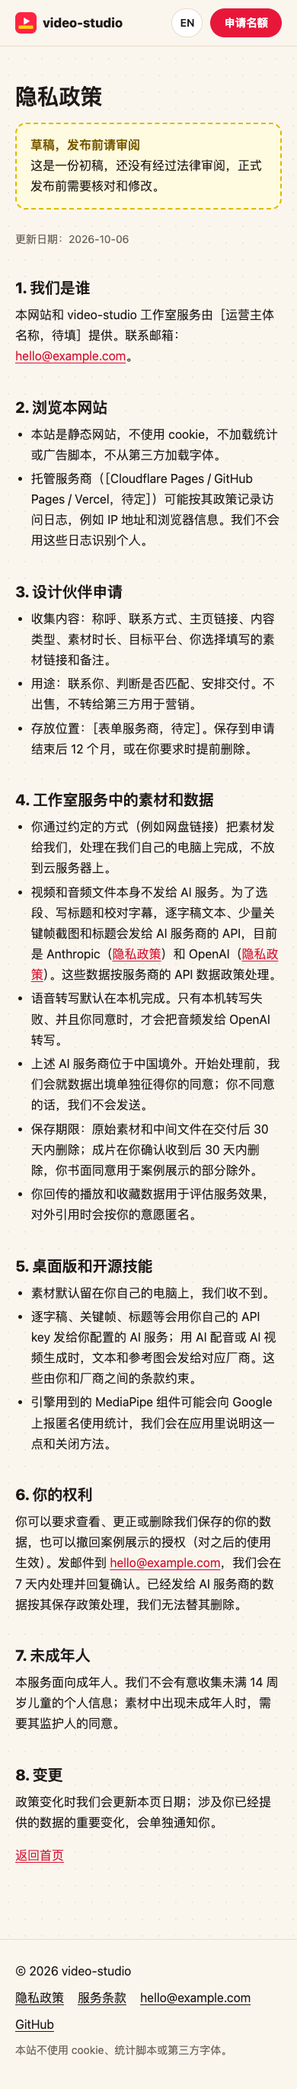
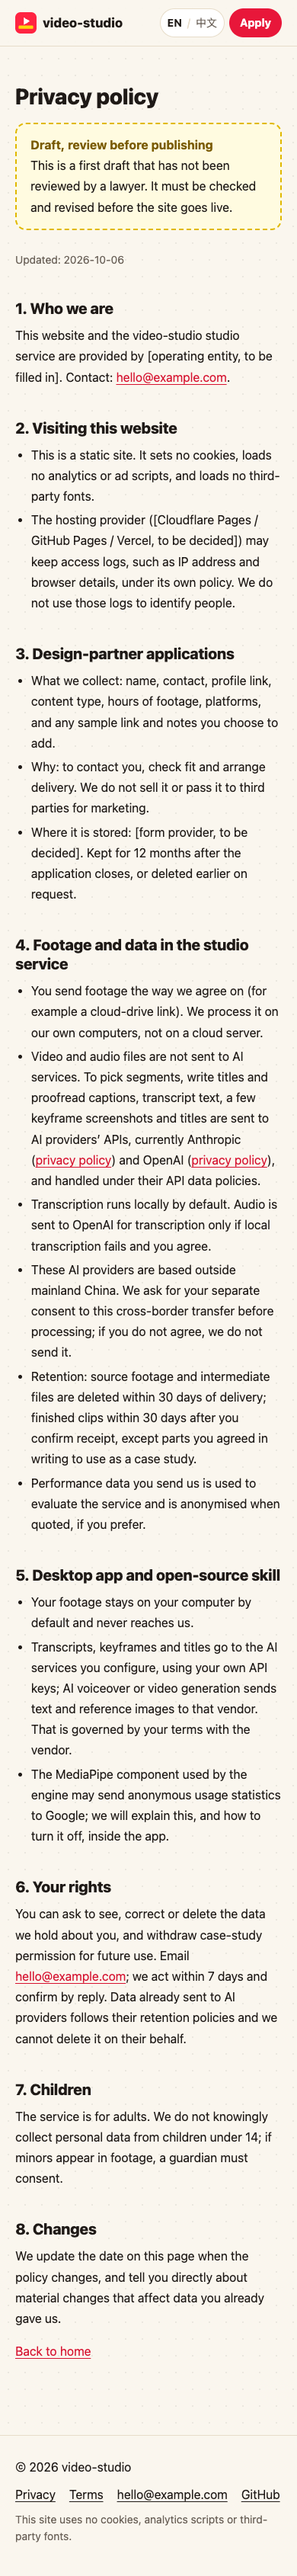
feat(site): make English the default locale, move Chinese to /zh/

diff --git a/src/i18n/en.ts b/src/i18n/en.ts
@@ -15,7 +15,7 @@ export const en: Widen<typeof zh> = {
   meta: {
     title: 'video-studio · Turn one lecture into 30 days of short videos',
     description:
-      'An AI-native video studio for course and knowledge creators: AI editing, automatic QC and human review. Clips, covers and post copy for Xiaohongshu, Douyin, WeChat Channels, YouTube and Shorts in 72 hours.',
+      'A video studio for course and knowledge creators. Send one long recording and get clips, covers and post copy for Xiaohongshu, Douyin, WeChat Channels, YouTube and Shorts within 72 hours, edited by AI and checked by a person.',
   },
   nav: {
     how: 'How it works',
@@ -26,19 +26,18 @@ export const en: Widen<typeof zh> = {
     desktop: 'Desktop app',
     faq: 'FAQ',
     cta: 'Apply',
-    switchLabel: '中文',
-    switchAria: '切换到中文',
+    langGroup: 'Language',
     skip: 'Skip to content',
   },
   hero: {
     eyebrow: 'An AI video studio for course and knowledge creators',
     titleA: 'Turn one lecture',
-    titleB: 'into 30 days of short videos',
-    sub: 'Send us a course recording, a talk or a livestream replay. AI editing, automatic QC and human review give you ready-to-post clips, covers and copy for Xiaohongshu, Douyin, WeChat Channels, YouTube and Shorts within 72 hours.',
+    titleB: 'into 30 days of short\u00a0videos',
+    sub: 'Send us a course recording, a talk or a livestream replay. Within 72 hours you get ready-to-post clips with covers and copy for Xiaohongshu, Douyin, WeChat Channels, YouTube and Shorts. AI does the editing, automatic checks catch problems, and a person reviews anything they flag.',
     ctaPrimary: 'Apply for a free spot (first 30)',
     ctaSecondary: 'See a real batch',
     points: [
-      'You only look at the exceptions QC flags',
+      'You only review the clips our checks flag',
       'Every clip comes with a cover, title, caption and tags',
       'We never log in to your accounts; you press publish',
     ],
@@ -53,27 +52,27 @@ export const en: Widen<typeof zh> = {
   },
   how: {
     kicker: 'How it works',
-    title: 'A whole lecture at once, not one clip at a time',
+    title: 'One lecture in, a whole batch out',
     steps: [
       {
         title: 'Upload',
-        body: 'Send one course recording, talk or livestream replay (ideally 90 minutes or less) and tell us the platforms and style you want.',
+        body: 'Send one course recording, talk or livestream replay (ideally 90 minutes or less) and tell us which platforms and style you want.',
       },
       {
         title: 'Batch edit',
-        body: 'AI picks segments by topic, removes pauses, filler words and repeats, then adds captions, title bands, code zooms and notes panels for the whole batch.',
+        body: 'AI splits the recording by topic and removes pauses, filler words and repeats. Then it adds captions, title bands, code zooms and notes panels across the whole batch.',
       },
       {
         title: 'Automatic QC',
-        body: 'Every file is checked: loudness, audio/video sync, missing words in captions, overlap with platform buttons, length and title length. Failures turn red.',
+        body: 'Every file is checked for loudness, audio/video sync, missing caption words, text hidden under app buttons, clip length and title length. Anything that fails is marked red.',
       },
       {
         title: 'Review exceptions',
-        body: 'A person watches, fixes and re-renders the red clips plus a random sample of green ones. You do not have to watch everything.',
+        body: 'A person watches, fixes and re-renders every red clip, plus a random sample of green ones. You don’t have to watch them all.',
       },
       {
         title: 'Publish packages',
-        body: 'One folder per platform: videos, covers, titles, captions, tags and a reminder to add the AI-content label. You publish them yourself.',
+        body: 'You get one folder per platform with videos, covers, titles, captions, tags and a reminder to add the AI-content label. You do the posting.',
       },
     ],
     platformsLabel: 'Platforms',
@@ -81,21 +80,21 @@ export const en: Widen<typeof zh> = {
   },
   proof: {
     kicker: 'Real numbers',
-    title: 'One real batch, the good and the not yet good',
-    lede: 'These numbers come from an internal test batch we ran on one of our own 72-minute lectures. It is not a customer case.',
+    title: 'One real batch: what worked and what didn’t',
+    lede: 'These numbers are from an internal test batch on one of our own 72-minute lectures, not a customer project.',
     stats: [
       { value: '96', label: 'finished files', note: '24 clips × 4 platforms, each with a cover and post copy' },
       { value: '$0.73', label: 'AI API cost for the batch', note: 'About $0.03 per clip; transcription ran locally' },
-      { value: '21 / 24', label: 'clips passed automatic QC', note: 'All 3 red clips were at edit seams and went to human review' },
-      { value: '3–4 h', label: 'first-run machine time', note: 'After a fix, an incremental re-run of 13 clips took 18 minutes' },
+      { value: '21 / 24', label: 'clips passed automatic QC', note: 'All 3 red clips were at edit seams and went to a person' },
+      { value: '3–4 h', label: 'first-run machine time', note: 'After a fix, re-running just the 13 affected clips took 18 minutes' },
     ],
-    caveatsTitle: 'What is not good enough yet',
+    caveatsTitle: 'What isn’t good enough yet',
     caveats: [
-      'Chinese captions still mishear some words. A glossary fixes part of it; a person catches the rest.',
-      'Too many filler-word cuts still need a human yes or no (about 15 per clip in this batch). We are making low-risk types pass automatically.',
-      'When the on-screen text in the source is small, it is hard to read in a vertical crop.',
+      'Chinese captions still get some words wrong. A glossary fixes some of them and a person catches the rest.',
+      'Filler-word cuts still need too many human yes/no calls (about 15 per clip in this batch). We’re working on letting the low-risk ones through automatically.',
+      'When on-screen text in the source is small, it’s hard to read after a vertical crop.',
     ],
-    stripCaption: 'Frames from six kinds of edits made with the same tools: talking head, lecture slices, photo story, travel vlog, podcast with face masking, explainer.',
+    stripCaption: 'Frames from six kinds of edits made with the same tools: talking head, lecture slices, photo story, travel vlog, podcast with face masking and explainer.',
     stripAlts: [
       'Talking-head short with captions and a notes panel',
       'Lecture slice with code and a title band',
@@ -124,30 +123,30 @@ export const en: Widen<typeof zh> = {
   },
   deliverables: {
     kicker: 'What you get',
-    title: 'What lands in your folder',
+    title: 'What you receive',
     items: [
-      { title: 'Per-platform videos', body: 'Xiaohongshu 3:4; Douyin, WeChat Channels and Shorts 9:16; YouTube 16:9 when you need it. Each exported separately at the platform loudness.' },
-      { title: 'Captions', body: 'Burned-in captions placed clear of each app’s buttons and title area. SRT files on request.' },
+      { title: 'Per-platform videos', body: 'Xiaohongshu 3:4; Douyin, WeChat Channels and Shorts 9:16; YouTube 16:9 if you need it. Each one is exported separately at that platform’s loudness level.' },
+      { title: 'Captions', body: 'Burned-in captions that stay clear of each app’s buttons and title area. SRT files on request.' },
       { title: 'Covers', body: 'One per clip, sized and cropped for each platform’s feed.' },
-      { title: 'Post copy', body: 'Title, caption and tags for every clip, within each platform’s limits, ready for you to edit.' },
-      { title: 'QC report', body: 'Results for every file: what passed, why something was red, and what the reviewer did about it.' },
+      { title: 'Post copy', body: 'A title, caption and tags for every clip, within each platform’s limits and ready for you to edit.' },
+      { title: 'QC report', body: 'Results for every file: what passed, why anything was marked red, and what the reviewer did about it.' },
       { title: 'Publishing checklist', body: 'A suggested posting schedule and a reminder to tick the AI-content label on each platform.' },
     ],
   },
   partner: {
     kicker: 'Design-partner program',
     title: 'Free for the first 30',
-    lede: 'We are just starting and need honest feedback and real data. The first 30 knowledge creators get one batch free, in exchange for helping us find out whether this is worth paying for.',
+    lede: 'We’re just getting started and need honest feedback and real data. The first 30 knowledge creators get one batch free. In return, you help us find out whether this is worth paying for.',
     getTitle: 'You get',
     get: ['1 recording → 10 short clips', '1–2 platforms', 'Cover and post copy for each', 'Delivery in 72 hours'],
-    giveTitle: 'You agree to (in writing)',
+    giveTitle: 'In return, you agree in writing to',
     give: [
-      'Let us show the batch as a case study; anonymous is fine.',
-      'Send us views and saves 7 days after posting (screenshots are fine).',
-      'One 15-minute feedback interview.',
-      'Agree on a second-batch price up front, for example ¥499 for 20 clips if you are happy. You can say no.',
+      'Let us show the batch as a case study (it can be anonymous).',
+      'Share views and saves 7 days after posting (screenshots are fine).',
+      'Do one 15-minute feedback call.',
+      'Agree up front on a price for a second batch if you’re happy, for example ¥499 for 20 clips. You can still say no.',
     ],
-    priority: 'We prioritise course and knowledge creators with recordings or livestream replays, then podcasters and bilingual creators. Spots are confirmed by fit and order of application; we reply to everyone.',
+    priority: 'Course and knowledge creators with recordings or livestream replays come first, then podcasters and bilingual creators. Spots are given by fit and order of application, and we reply to everyone.',
   },
   form: {
     title: 'Apply as a design partner',
@@ -156,7 +155,7 @@ export const en: Widen<typeof zh> = {
     profile: 'Profile link (Xiaohongshu, Bilibili, YouTube, ...)',
     type: 'Content type',
     typeOptions: ['Course recording', 'Talk / lecture', 'Livestream replay', 'Podcast', 'Other'],
-    hours: 'Roughly how many hours of long recordings',
+    hours: 'Roughly how many hours of long recordings you have',
     hoursOptions: ['Under 5 hours', '5–20 hours', 'Over 20 hours'],
     platforms: 'Platforms you post on',
     platformOptions: ['Xiaohongshu', 'Douyin', 'WeChat Channels', 'YouTube', 'YouTube Shorts', 'Bilibili'],
@@ -169,17 +168,17 @@ export const en: Widen<typeof zh> = {
     submit: 'Send application',
     required: 'required',
     offTitle: 'The online form is not open yet',
-    offBody: 'Please apply by email for now, with the details below. We reply to everyone.',
+    offBody: 'For now, please apply by email with the details below. We reply to everyone.',
     offButton: 'Apply by email',
     mailSubject: 'Design partner application',
     mailBody:
       'Name:\nContact:\nProfile link:\nContent type (course / talk / livestream / podcast / other):\nHours of recordings:\nPlatforms:\nRecording to start with:\n\nI have the rights to the footage and understand the 4 conditions.',
-    note: 'We use this only to contact you and check fit. We do not sell it or pass it to third parties.',
+    note: 'We only use this to contact you and check fit. We don’t sell it or share it with third parties.',
   },
   pricing: {
     kicker: 'Pricing',
     title: 'Early pricing',
-    lede: 'These are early prices we are still testing with pilots, and they will change. For design partners, the second-batch price is whatever you agreed to in writing.',
+    lede: 'We’re still testing these prices with pilot customers, so they will change. Design partners pay whatever second-batch price they agreed to in writing.',
     badge: 'Early pricing',
     plans: [
       {
@@ -192,24 +191,24 @@ export const en: Widen<typeof zh> = {
         name: 'Monthly',
         price: '¥2,999–4,999',
         unit: '/ month',
-        items: ['4 recordings a month', '80–100 clips', '2–3 platforms', 'Your style and glossary, kept'],
+        items: ['4 recordings a month', '80–100 clips', '2–3 platforms', 'We keep your style and glossary'],
       },
       {
         name: 'Per clip',
         price: '¥25–40',
         unit: '/ clip',
-        items: ['Beyond the monthly plan, or one-off needs', 'Same automatic QC and human review'],
+        items: ['Extra clips beyond the monthly plan, or one-off jobs', 'Same automatic QC and human review'],
       },
     ],
-    currency: 'Prices in CNY. Creators outside China: email us for a quote.',
+    currency: 'Prices are in CNY. Outside China? Email us for a quote.',
   },
   desktop: {
     kicker: 'Desktop app (preview)',
     title: 'Prefer to do it yourself?',
-    lede: 'The same engine runs in a desktop workbench on your own computer: create batches, watch progress on a board, review in a grid, cut by editing the transcript. When you publish, it fills in the platform’s page in a built-in browser and you press the publish button yourself.',
+    lede: 'The same engine also runs as a desktop app on your own computer. Create batches, track them on a board, review clips in a grid and cut by editing the transcript. When it’s time to post, it fills in each platform’s upload page in a built-in browser, and you click publish yourself.',
     mac: 'Download for macOS',
     win: 'Download for Windows',
-    note: 'Preview build; features and installation will change. If the download page has no files yet, it is not open; apply as a design partner instead. You bring your own AI API keys.',
+    note: 'This is a preview build, so features and installation will change. If the download page has no files yet, the preview isn’t open; apply as a design partner instead. You’ll need your own AI API keys.',
     board: {
       cols: ['Queued', 'Rendering', 'QC', 'Review', 'Approved'],
       cards: ['ep03 · RRF ranks only', 'ep06 · small chunks', 'ep11 · which metric first', 'ep14 · parent-child', 'ep19 · reranking'],
@@ -221,20 +220,20 @@ export const en: Widen<typeof zh> = {
   oss: {
     kicker: 'Open source',
     title: 'The editing engine is open source',
-    lede: 'Underneath is video-studio, a Claude Code skill under the MIT licence. Describe the edit in Chinese or English: talking-head shorts, lecture slices, podcast clips with face masking, explainers, vlogs and more across 12 workflows, plus covers, captions, loudness and multi-platform export.',
+    lede: 'Under the hood is video-studio, an MIT-licensed Claude Code skill. Describe the edit in English or Chinese. It covers 12 workflows, including talking-head shorts, lecture slices, podcast clips with face masking, explainers and vlogs, plus covers, captions, loudness and multi-platform export.',
     button: 'View on GitHub',
-    tested: 'Each workflow was tested on real footage; known issues are listed in VALIDATION.md in the repo.',
+    tested: 'Each workflow was tested on real footage. Known issues are listed in VALIDATION.md in the repo.',
   },
   faq: {
     kicker: 'FAQ',
     title: 'Privacy, rights and platform rules',
     items: [
       {
-        q: 'With the studio service, where does my footage go?',
+        q: 'If I use the studio service, where does my footage go?',
         a: 'You send it to us the way we agree on (for example a cloud-drive link) and we process it on our own computers, not on a cloud server. The video and audio files are not sent to AI services. To pick segments, write titles and proofread captions, the transcript text, a few keyframe screenshots and titles are sent to AI providers’ APIs (currently Anthropic and OpenAI). Transcription runs locally by default; audio goes to OpenAI for transcription only if local transcription fails and you agree.',
       },
       {
-        q: 'And with the desktop app or the open-source skill?',
+        q: 'What about the desktop app or the open-source skill?',
         a: 'Your footage stays on your own computer by default and never reaches us. As above, transcripts, keyframes and titles go to the AI services you configure, using your own API keys; AI voiceover or AI video generation sends text and reference images to that vendor. The MediaPipe component used by the engine may send anonymous usage statistics to Google; we will explain this, and how to turn it off, inside the app.',
       },
       {
@@ -265,8 +264,8 @@ export const en: Widen<typeof zh> = {
   },
   contact: {
     kicker: 'Contact',
-    title: 'Questions? Email us',
-    body: 'Partnerships, questions and data-deletion requests all go to this address. For the open-source skill you can also open a GitHub issue.',
+    title: 'Questions? Send us an email',
+    body: 'Partnerships, questions and data-deletion requests all go to this address. For the open-source skill, you can also open a GitHub issue.',
     github: 'GitHub issues',
   },
   footer: {

diff --git a/src/styles/global.css b/src/styles/global.css
@@ -72,7 +72,11 @@ mark {
 .main-nav a { color: var(--ink); text-decoration: none; font-size: 0.94rem; }
 .main-nav a:hover { color: var(--red-ink); }
 .header-actions { margin-left: auto; display: flex; align-items: center; gap: 10px; }
-.lang { color: var(--ink); font-weight: 600; text-decoration: none; padding: 6px 10px; border: 1px solid var(--line); border-radius: 999px; font-size: 0.875rem; background: var(--card); }
+.lang-switch { display: inline-flex; align-items: center; gap: 2px; padding: 3px 4px; border: 1px solid var(--line); border-radius: 999px; font-size: 0.875rem; background: var(--card); white-space: nowrap; }
+.lang-switch a { color: var(--muted, #6b6459); text-decoration: none; padding: 3px 7px; border-radius: 999px; }
+.lang-switch a:hover { color: var(--ink); }
+.lang-switch a[aria-current] { color: var(--ink); font-weight: 700; }
+.lang-switch span { color: var(--line); }
 @media (min-width: 960px) {
   .main-nav { display: flex; }
   .header-actions { margin-left: 8px; }
@@ -94,6 +98,13 @@ mark {
 .btn:active { transform: translateY(2px); box-shadow: 0 1px 0 #a90e27; }
 .btn-sm { min-height: 38px; padding: 6px 16px; font-size: 0.9rem; box-shadow: none; }
 .btn-sm:hover, .btn-sm:active { box-shadow: none; }
+.logo, .btn-sm { white-space: nowrap; flex-shrink: 0; }
+@media (max-width: 420px) {
+  .header-row { gap: 10px; }
+  .header-actions { gap: 6px; }
+  .btn-sm { padding: 6px 12px; }
+  .lang-switch a { padding: 3px 5px; }
+}
 .btn-ghost { background: var(--card); color: var(--ink); border-color: var(--ink); box-shadow: 0 3px 0 var(--ink); }
 .btn-ghost:hover { box-shadow: 0 4px 0 var(--ink); }
 .btn-ghost:active { box-shadow: 0 1px 0 var(--ink); }
@@ -140,7 +151,8 @@ mark {
 .hero { padding: 40px 0 56px; overflow: hidden; }
 .hero-grid { display: grid; gap: 40px; align-items: center; }
 .eyebrow { display: inline-block; font-weight: 700; font-size: 0.9rem; background: var(--card); border: 1px solid var(--line); border-radius: 999px; padding: 4px 14px; margin-bottom: 16px; }
-.hero h1 { margin-bottom: 18px; }
+.hero h1 { margin-bottom: 18px; text-wrap: balance; }
+.hero h1:lang(en) { font-size: clamp(2.1rem, 7.4vw, 3.2rem); }
 .hero h1 mark { white-space: normal; }
 .hero .ticks { margin-top: 4px; color: #3b332d; }
 .hero-visual { position: relative; aspect-ratio: 100 / 80; max-width: 380px; width: 100%; margin-inline: auto; }

diff --git a/src/i18n/index.ts b/src/i18n/index.ts
@@ -1,15 +1,12 @@
 import { zh } from './zh';
 import { en } from './en';
 
-export type Lang = 'zh' | 'en';
-export const dict = { zh, en } as const;
+export type Lang = 'en' | 'zh';
+export const dict = { en, zh } as const;
 export const t = (lang: Lang) => dict[lang];
 
-/** Path prefix for a language: '' for 中文 (default), '/en' for English. */
-export const prefix = (lang: Lang) => (lang === 'en' ? '/en' : '');
+/** Path prefix for a language: '' for English (default), '/zh' for 中文. */
+export const prefix = (lang: Lang) => (lang === 'zh' ? '/zh' : '');
 
-/** Same page in the other language. `page` is '' (home), 'privacy' or 'terms'. */
-export const altPath = (lang: Lang, page: string) => {
-  const other: Lang = lang === 'en' ? 'zh' : 'en';
-  return `${prefix(other)}/${page}`.replace(/\/+$/, '') || '/';
-};
+/** URL path of `page` ('' = home, 'privacy', 'terms') in `lang`. Home is '/' or '/zh/'. */
+export const pathFor = (lang: Lang, page: string) => (page ? `${prefix(lang)}/${page}` : `${prefix(lang)}/`);

diff --git a/src/i18n/zh.ts b/src/i18n/zh.ts
@@ -16,8 +16,7 @@ export const zh = {
     desktop: '桌面版',
     faq: '常见问题',
     cta: '申请名额',
-    switchLabel: 'EN',
-    switchAria: 'Switch to English',
+    langGroup: '语言',
     skip: '跳到正文',
   },
   hero: {

diff --git a/README.md b/README.md
@@ -1,7 +1,14 @@
 # video-studio-site
 
-Product website (官网) for the video-studio AI video studio: 中文 at `/`, English at `/en/`.
-Static Astro build, zero JavaScript shipped, no cookies, no analytics, no third-party fonts (system font stack).
+Product website (官网) for the video-studio AI video studio: English (default) at `/`, `/privacy`, `/terms`;
+中文 at `/zh/`, `/zh/privacy`, `/zh/terms`. The old `/en/*` URLs are static redirect pages to the English
+equivalents (`redirects` in `astro.config.mjs`).
+Static Astro build, no cookies, no analytics, no third-party fonts (system font stack). The only JavaScript is a
+four-line inline script that keeps the current `#section` when you switch language; without it the switcher still
+opens the same page in the other language.
+
+SEO: every page has `<html lang>` (`en` / `zh-CN`), a canonical URL, and hreflang alternates `en`, `zh-CN` and
+`x-default` (= English). There is no sitemap.
 
 Not deployed. No GitHub repo created. Everything the creator must decide is listed at the bottom.
 
@@ -22,16 +29,17 @@ node scripts/screenshot.mjs   # full-page screenshots into screenshots/ (needs `
 
 ```
 src/config.ts              ← the only place for URL, contact email, FORM_ENDPOINT, download URL, GitHub URL
-src/i18n/zh.ts, en.ts      ← all copy (same shape; en.ts is type-checked against zh.ts)
+src/i18n/en.ts, zh.ts      ← all copy (same shape; en.ts is type-checked against zh.ts)
+src/i18n/index.ts          ← prefix() / pathFor(): '' for English, '/zh' for 中文
 src/components/Home.astro  ← all home sections: hero, how, proof, deliverables, partner + form, pricing,
                              desktop app, open source, FAQ, contact
 src/components/Privacy.astro, Terms.astro   ← legal drafts (both languages), marked "draft, review before publishing"
-src/layouts/Base.astro     ← header/footer, hreflang, OG tags
+src/layouts/Base.astro     ← header/footer, EN / 中文 switcher, hreflang, OG tags
 src/styles/global.css      ← Notebook Light theme (DESIGN.md §3 ②)
-src/pages/{index,privacy,terms}.astro, src/pages/en/...
+src/pages/{index,privacy,terms}.astro (English), src/pages/zh/... (中文)
 public/img/                ← optimised images (committed); sources in assets/demos/
 scripts/                   ← optimize-images.sh, check-copy.mjs, screenshot.mjs
-screenshots/               ← home desktop/mobile (zh + en) and privacy page
+screenshots/               ← home-en-*, home-zh-* (desktop + mobile) and privacy-mobile
 ```
 
 ## Config (`src/config.ts`)
